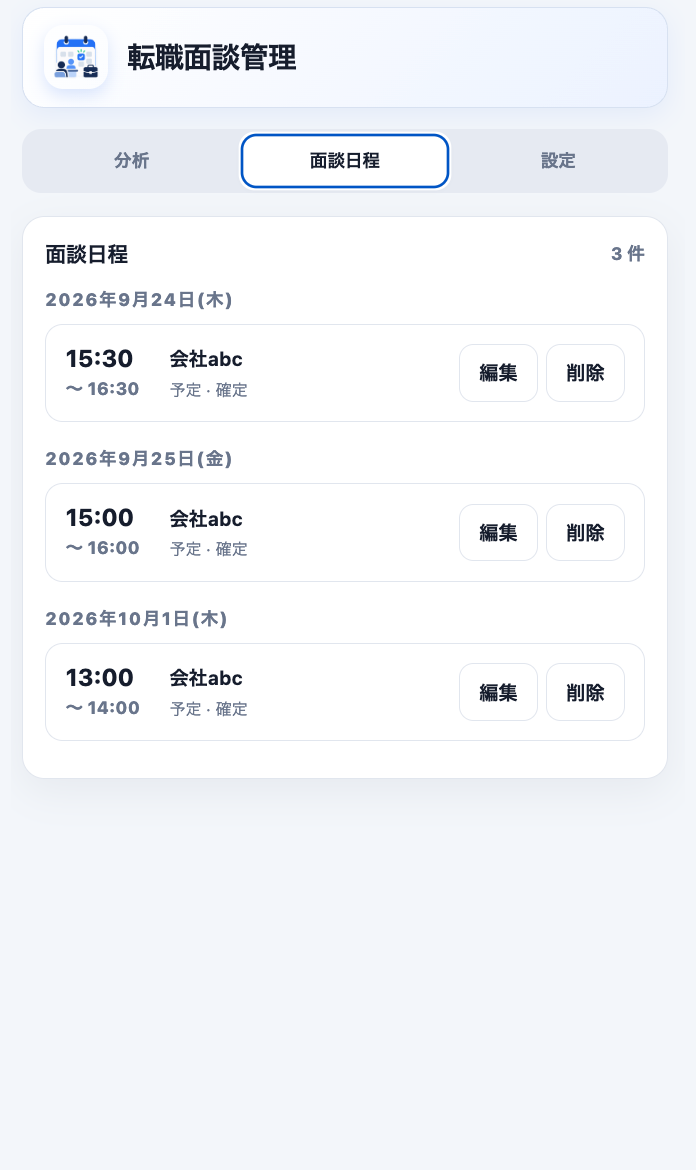
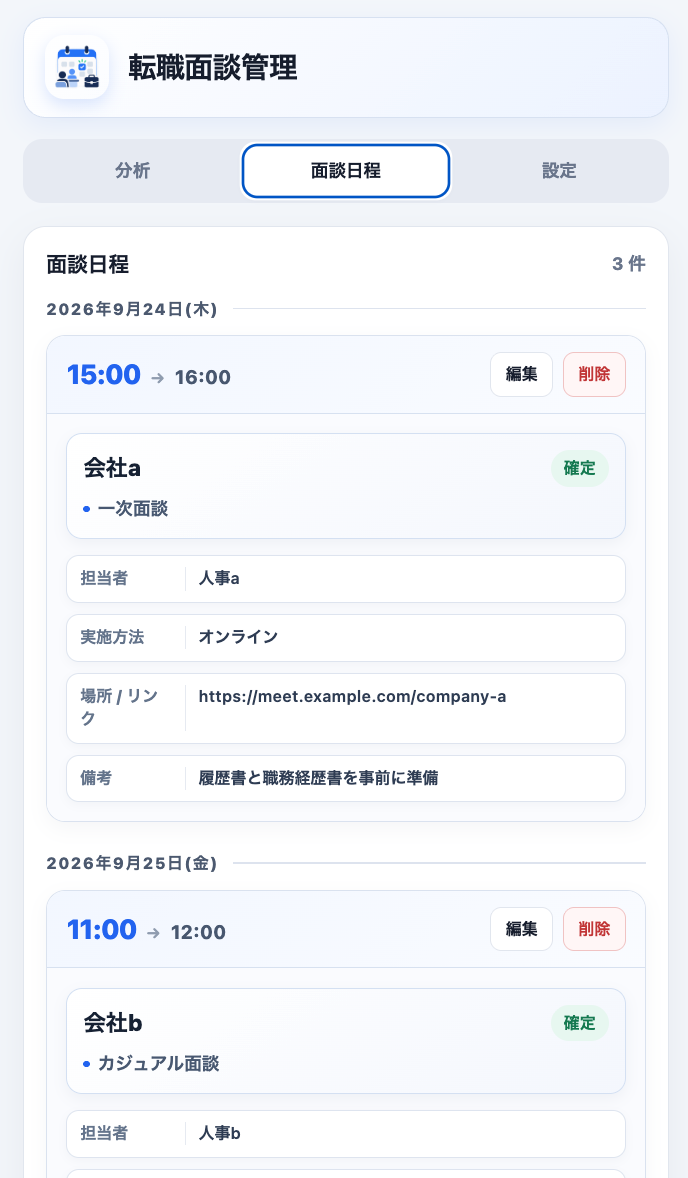
update UI

diff --git a/popup.js b/popup.js
@@ -3,7 +3,7 @@ const CURRENT_SCHEMA_VERSION = 2;
 const DATA_EXPORT_FORMAT = "job-conversation-extractor-backup";
 const DATA_EXPORT_VERSION = 1;
 const JAPANESE_HOLIDAY_API_BASE_URL = "https://api.jp-calendar.com/v1/holidays";
-const USE_MOCK_DATA = false;
+const USE_MOCK_DATA = true;
 const LANGUAGE_LOCALES = { zh: "zh-CN", en: "en-US", ja: "ja-JP" };
 const TRANSLATIONS = {
   zh: {
@@ -1423,20 +1423,31 @@ function renderSchedule() {
       : "";
     return `${heading}
       <div class="schedule-item">
-        <div class="list-row">
-          <div class="schedule-time">${escapeHtml(startTime)}${endTime ? `<br><span class="muted small">～ ${escapeHtml(endTime)}</span>` : ""}</div>
-          <div style="flex:1">
-            <div class="schedule-title">${escapeHtml(company?.name || "未命名公司")}</div>
-            <div class="schedule-meta">${escapeHtml(item.title)} · ${escapeHtml(t("confirmed"))}</div>
-            ${contactName ? `<div class="schedule-meta">${escapeHtml(t("contact"))}：${escapeHtml(contactName)}</div>` : ""}
-            ${method ? `<div class="schedule-meta">${escapeHtml(t("method"))}：${escapeHtml(method)}</div>` : ""}
-            ${location ? `<div class="schedule-meta">${escapeHtml(t("location"))}：${escapeHtml(location)}</div>` : ""}
-            ${notes ? `<div class="schedule-meta">${escapeHtml(t("notes"))}：${escapeHtml(notes)}</div>` : ""}
+        <div class="schedule-item-header">
+          <div class="schedule-time">
+            <span class="schedule-time-start">${escapeHtml(startTime)}</span>
+            ${endTime ? `<span class="schedule-time-separator">→</span><span class="schedule-time-end">${escapeHtml(endTime)}</span>` : ""}
           </div>
-          <div style="display:flex;gap:5px">
-            <button class="secondary-button edit-schedule" data-schedule-id="${escapeHtml(item.id)}">${escapeHtml(t("edit"))}</button>
-            <button class="secondary-button delete-schedule" data-schedule-id="${escapeHtml(item.id)}">${escapeHtml(t("delete"))}</button>
+          <div class="schedule-actions">
+            <button class="secondary-button schedule-action edit-schedule" data-schedule-id="${escapeHtml(item.id)}">${escapeHtml(t("edit"))}</button>
+            <button class="danger-button schedule-action delete-schedule" data-schedule-id="${escapeHtml(item.id)}">${escapeHtml(t("delete"))}</button>
           </div>
+        </div>
+        <div class="schedule-item-body">
+          <div class="schedule-summary">
+            <div class="schedule-company-row">
+              <div class="schedule-company">${escapeHtml(company?.name || "未命名公司")}</div>
+              <span class="badge success">${escapeHtml(t("confirmed"))}</span>
+            </div>
+            <div class="schedule-title">${escapeHtml(item.title)}</div>
+          </div>
+          ${(contactName || method || location || notes) ? `
+            <div class="schedule-details">
+              ${contactName ? `<div class="schedule-detail"><span class="schedule-detail-label">${escapeHtml(t("contact"))}</span><span class="schedule-detail-value">${escapeHtml(contactName)}</span></div>` : ""}
+              ${method ? `<div class="schedule-detail"><span class="schedule-detail-label">${escapeHtml(t("method"))}</span><span class="schedule-detail-value">${escapeHtml(method)}</span></div>` : ""}
+              ${location ? `<div class="schedule-detail"><span class="schedule-detail-label">${escapeHtml(t("location"))}</span><span class="schedule-detail-value">${escapeHtml(location)}</span></div>` : ""}
+              ${notes ? `<div class="schedule-detail"><span class="schedule-detail-label">${escapeHtml(t("notes"))}</span><span class="schedule-detail-value">${escapeHtml(notes)}</span></div>` : ""}
+            </div>` : ""}
         </div>
       </div>`;
   }).join("");

diff --git a/popup.html b/popup.html
@@ -425,17 +425,111 @@
     .settings-content { padding: 0 14px 14px; }
 
     .schedule-date {
-      margin: 15px 0 7px;
-      color: var(--muted);
-      font-size: 11px;
+      display: flex;
+      align-items: center;
+      gap: 9px;
+      margin: 18px 0 9px;
+      color: #56647a;
+      font-size: 10px;
       font-weight: 800;
       letter-spacing: 0.08em;
     }
 
+    .schedule-date::after {
+      content: "";
+      height: 1px;
+      flex: 1;
+      background: #e1e7f0;
+    }
+
     .schedule-date:first-child { margin-top: 0; }
-    .schedule-time { min-width: 55px; font-size: 15px; font-weight: 750; }
-    .schedule-title { font-size: 12px; font-weight: 700; }
-    .schedule-meta { margin-top: 3px; color: var(--muted); font-size: 10px; }
+    .schedule-item {
+      padding: 0;
+      overflow: hidden;
+      border-color: #dfe6f1;
+      border-radius: 12px;
+      box-shadow: 0 4px 12px rgba(27, 45, 78, 0.045);
+    }
+    .schedule-item-header {
+      display: flex;
+      align-items: center;
+      justify-content: space-between;
+      gap: 12px;
+      padding: 10px 12px;
+      border-bottom: 1px solid #dce5f2;
+      background: linear-gradient(135deg, #f4f8ff 0%, #fafcff 100%);
+      box-shadow: 0 3px 10px rgba(39, 110, 241, 0.055);
+    }
+    .schedule-time {
+      display: flex;
+      align-items: baseline;
+      gap: 6px;
+      color: var(--primary);
+      white-space: nowrap;
+    }
+    .schedule-time-start { font-size: 17px; font-weight: 820; letter-spacing: -0.03em; }
+    .schedule-time-separator { color: #9aa6b8; font-size: 10px; font-weight: 700; }
+    .schedule-time-end { color: #52627a; font-size: 12px; font-weight: 750; }
+    .schedule-actions { display: flex; align-items: center; gap: 6px; }
+    .schedule-action {
+      width: auto;
+      min-height: 28px;
+      padding: 4px 9px;
+      border-radius: 7px;
+      font-size: 10px;
+      font-weight: 720;
+    }
+    .schedule-item-body { padding: 12px; background: #fbfcfe; }
+    .schedule-summary {
+      padding: 10px;
+      border: 1px solid #d9e4f4;
+      border-radius: 10px;
+      background: linear-gradient(145deg, #ffffff 0%, #f5f8fd 100%);
+      box-shadow: 0 3px 9px rgba(36, 62, 103, 0.055);
+    }
+    .schedule-company-row { display: flex; align-items: center; justify-content: space-between; gap: 8px; }
+    .schedule-company { min-width: 0; color: #17243a; font-size: 14px; font-weight: 820; letter-spacing: -0.01em; }
+    .schedule-title {
+      display: inline-flex;
+      align-items: center;
+      gap: 5px;
+      margin-top: 6px;
+      color: #52637c;
+      font-size: 11px;
+      font-weight: 720;
+    }
+    .schedule-title::before {
+      content: "";
+      width: 4px;
+      height: 4px;
+      border-radius: 50%;
+      background: var(--primary);
+    }
+    .schedule-details {
+      display: grid;
+      gap: 7px;
+      margin-top: 10px;
+    }
+    .schedule-detail {
+      display: grid;
+      grid-template-columns: 66px minmax(0, 1fr);
+      gap: 8px;
+      align-items: start;
+      padding: 7px 8px;
+      border: 1px solid #e2e8f1;
+      border-radius: 8px;
+      background: #fff;
+      box-shadow: 0 2px 6px rgba(27, 45, 78, 0.035);
+      font-size: 10px;
+      line-height: 1.45;
+    }
+    .schedule-detail-label {
+      padding-right: 7px;
+      border-right: 1px solid #e9edf3;
+      color: #6f7f96;
+      font-weight: 760;
+    }
+    .schedule-detail-value { min-width: 0; color: #34445d; font-weight: 620; overflow-wrap: anywhere; }
 
     .slot-list { display: grid; gap: 7px; margin-top: 10px; }
     .slot-option {
